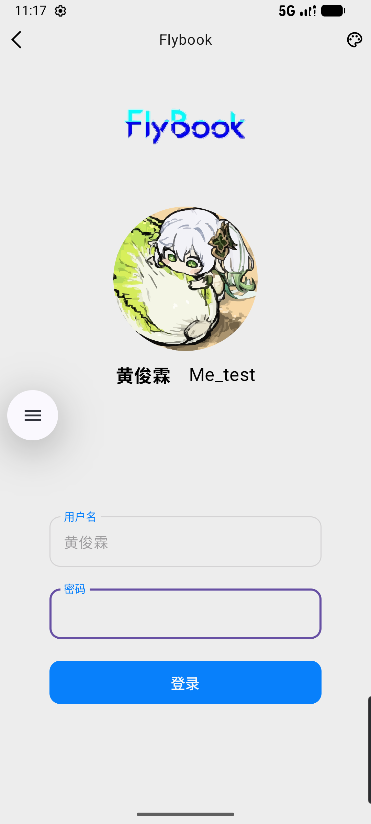
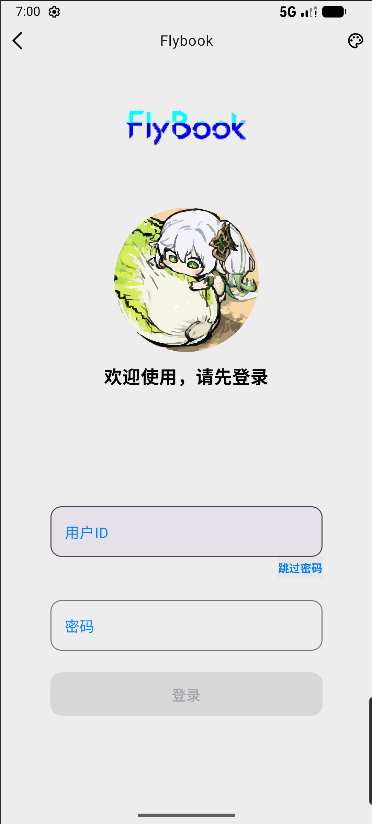
更新README

diff --git a/README.md b/README.md
@@ -69,6 +69,7 @@ FlyBook/
 
 ### 登录模块（可选）
 
+<img src="img\\README\\login_nocode.png" width="240px" height="528px">
 <img src="img\\README\\login.png" width="240px" height="528px">
 
 ### 即时通信模块
@@ -79,6 +80,7 @@ FlyBook/
 <img src="img\\README\\homepage.png" width="240px" height="528px">
 <img src="img\\README\\homepage_black.png" width="240px" height="528px">
 <img src="img\\README\\chatlist.png" width="240px" height="528px">
+<img src="img\\README\\chatlist_complete.png" width="240px" height="528px">
 <!-- <img src="img\\README\\chatlist_black.png" width="240px" height="528px"> -->
 <img src="img\\README\\emoji.png" width="240px" height="528px">
 <img src="img\\README\\emoji_boom.png" width="240px" height="528px">
@@ -93,6 +95,7 @@ FlyBook/
 - 会话界面历史消息展示
 - 发送消息展示
 - 部分Emoji表情的添加与动画效果
+- 隐藏聊天
 
 #### 📄待完成
 
@@ -112,6 +115,7 @@ FlyBook/
 <img src="img\\README\\tododetails_done.png" width="240px" height="528px">
 <img src="img\\README\\add_todo.png" width="240px" height="528px">
 <img src="img\\README\\date.png" width="240px" height="528px">
+<img src="img\\README\\todolist_com+del.png" width="240px" height="528px">
 
 #### ✅已完成
 
@@ -120,10 +124,11 @@ FlyBook/
 - 任务详情查看
 - 任务状态管理
 - 任务列表展示（网格布局）
+- 任务与聊天消息关联
 
 #### 📄待完成
 
-- 任务与聊天消息关联
+
 
 ### 个人主页模块
 
